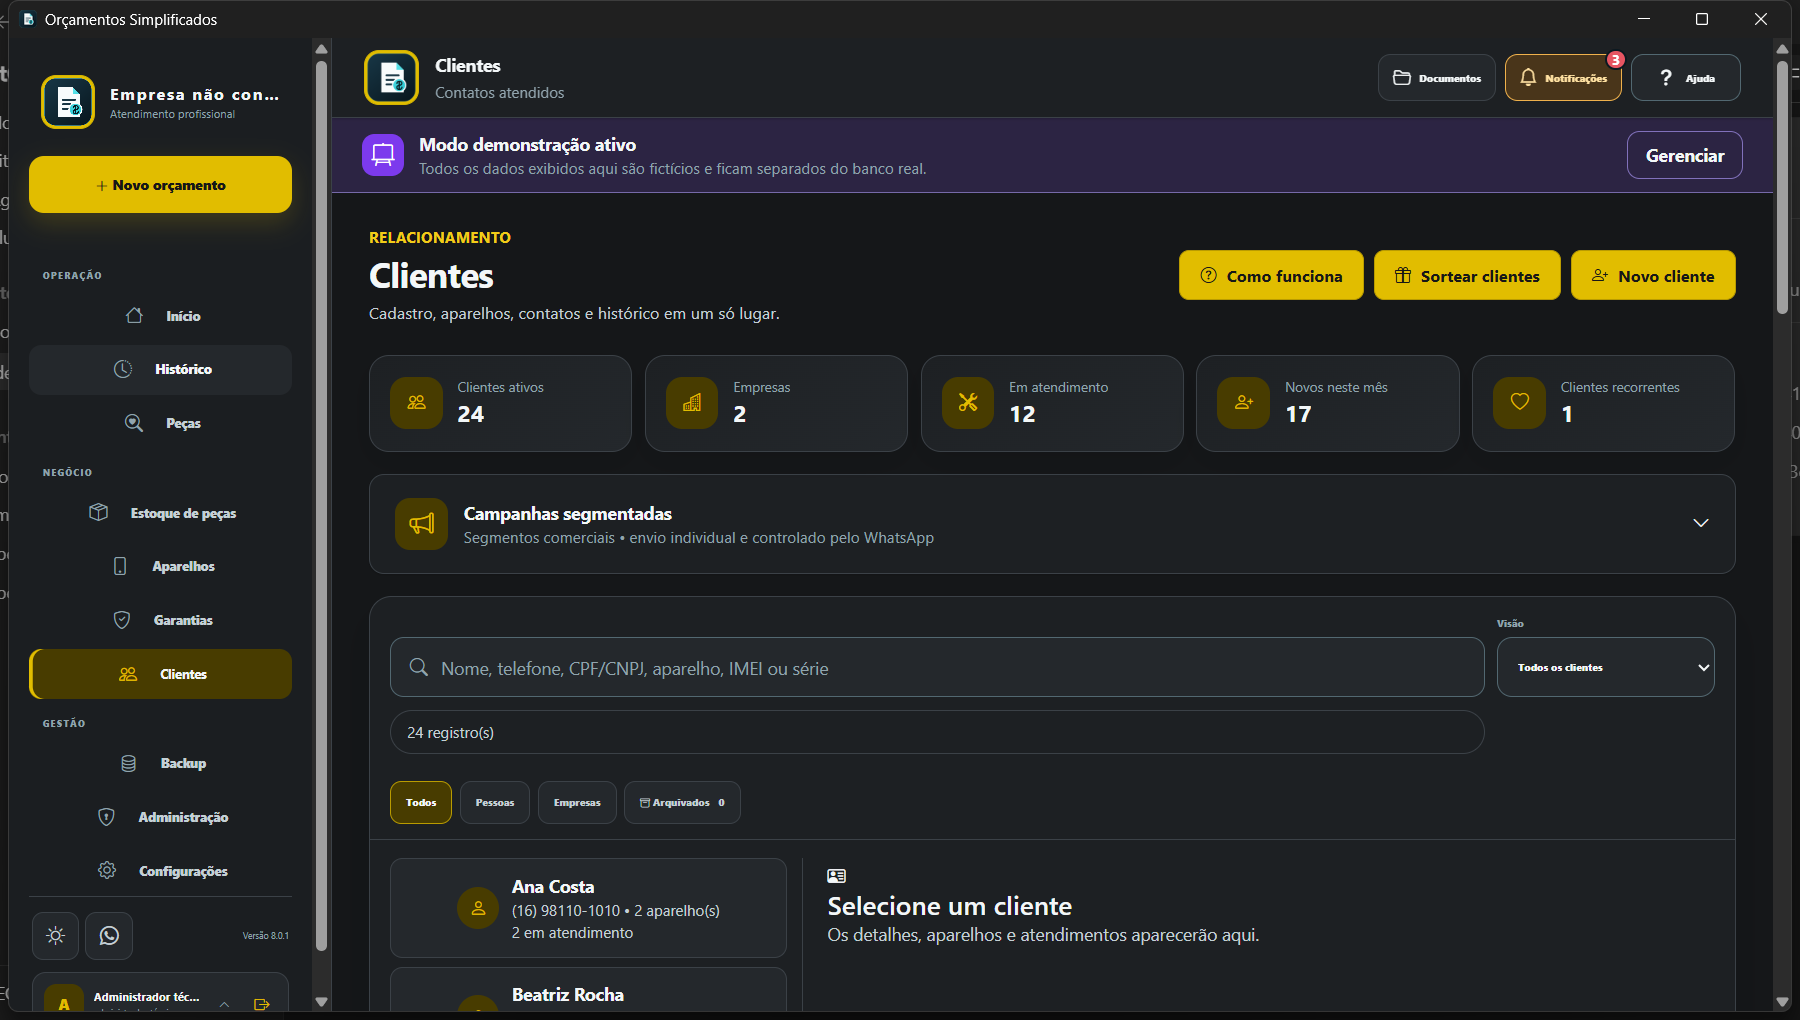
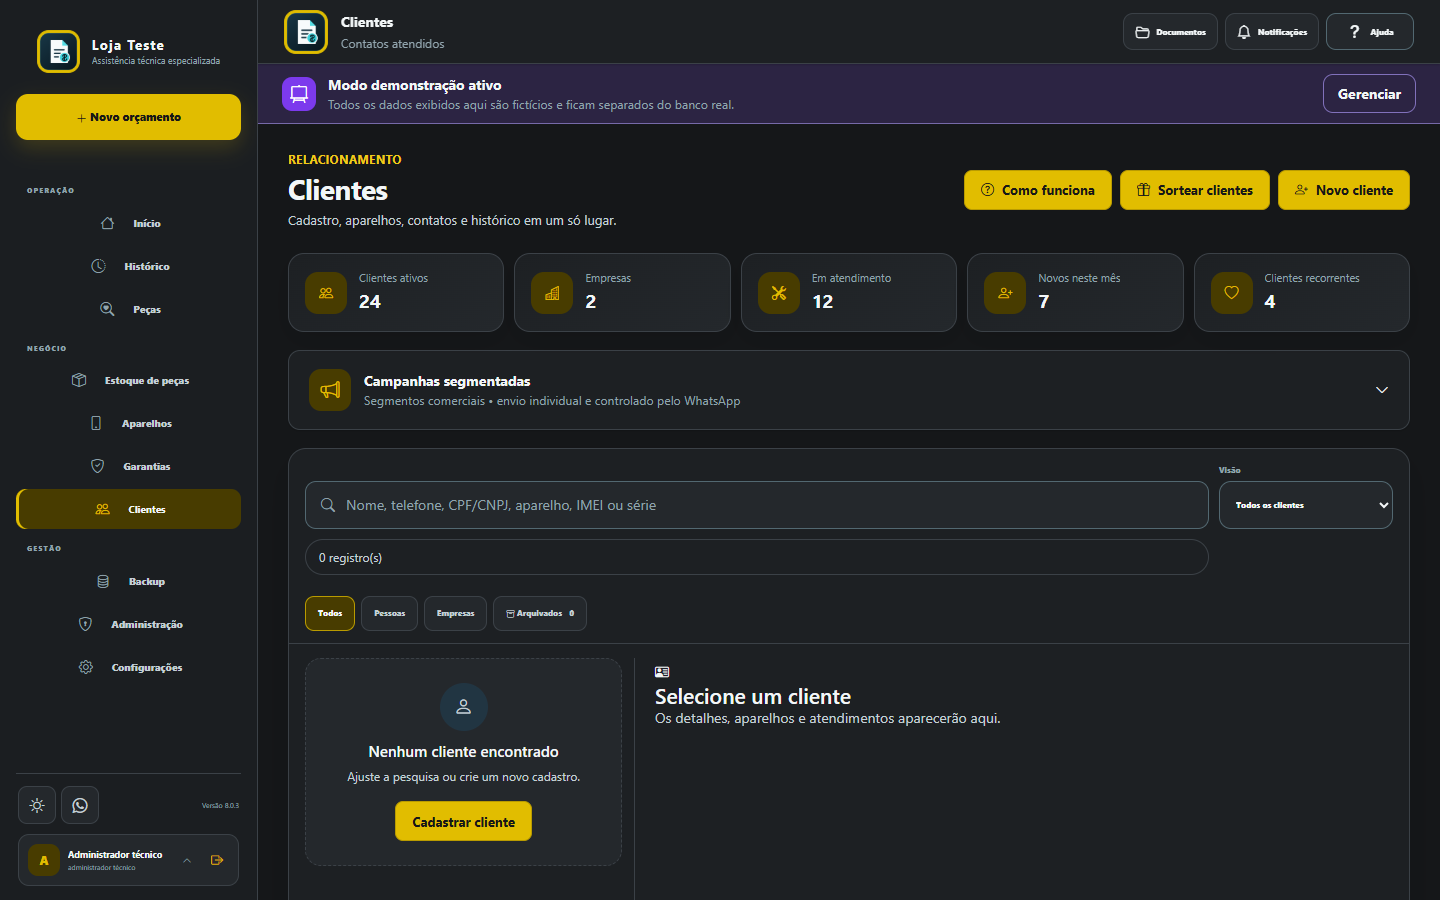
Corrige vitrine com telas reais de todos os menus

diff --git a/app/components/product-preview.tsx b/app/components/product-preview.tsx
@@ -4,7 +4,16 @@ import Image from "next/image";
 import { useState } from "react";
 import { assetPath } from "../../lib/site-data";
 
-type PreviewView = "inicio" | "historico" | "clientes" | "novo";
+type PreviewView =
+  | "inicio"
+  | "historico"
+  | "clientes"
+  | "novo"
+  | "aparelhos"
+  | "estoque"
+  | "garantias"
+  | "relatorios"
+  | "configuracoes";
 type TourArea = "inicio" | "novo" | "historico" | "clientes" | "aparelhos" | "estoque" | "garantias" | "relatorios" | "configuracoes";
 
 const previews: Record<PreviewView, { src: string; title: string; description: string }> = {
@@ -12,6 +21,11 @@ const previews: Record<PreviewView, { src: string; title: string; description: s
   historico: { src: "/assets/img/app/historico-real.png", title: "Histórico", description: "Atendimentos, filtros, vínculos e andamento em uma única tela." },
   clientes: { src: "/assets/img/app/clientes-real.png", title: "Clientes", description: "Pesquisa, aparelhos e histórico de cada cliente." },
   novo: { src: "/assets/img/app/novo-orcamento-real.png", title: "Novo orçamento", description: "Cadastro guiado do cliente, aparelho, serviço e condições." },
+  aparelhos: { src: "/assets/img/app/aparelhos-real.png", title: "Aparelhos", description: "Compras, estoque, vendas e imagens reunidos em uma central." },
+  estoque: { src: "/assets/img/app/estoque-real.png", title: "Estoque de peças", description: "Saldos, custos, compatibilidade e movimentações de peças." },
+  garantias: { src: "/assets/img/app/garantias-real.png", title: "Garantias", description: "Retornos, prazos e histórico ligados ao atendimento original." },
+  relatorios: { src: "/assets/img/app/relatorios-real.png", title: "Relatórios", description: "Exportação contábil e indicadores da operação." },
+  configuracoes: { src: "/assets/img/app/configuracoes-real.png", title: "Configurações", description: "Aparência, inicialização, ajuda e preferências do aplicativo." },
 };
 
 const tourAreas: Array<{ id: TourArea; view: PreviewView; label: string; icon: string; group: string; description: string }> = [
@@ -19,11 +33,11 @@ const tourAreas: Array<{ id: TourArea; view: PreviewView; label: string; icon: s
   { id: "novo", view: "novo", label: "Novo orçamento", icon: "bi-plus-circle", group: "Rotina", description: "Cadastre cliente, aparelho, relato, serviços e condições em uma sequência clara." },
   { id: "historico", view: "historico", label: "Histórico", icon: "bi-clock-history", group: "Rotina", description: "Encontre atendimentos por status, período, cliente, aparelho ou responsável." },
   { id: "clientes", view: "clientes", label: "Clientes", icon: "bi-people", group: "Atendimento", description: "Consulte contatos, aparelhos e todo o relacionamento de cada cliente." },
-  { id: "aparelhos", view: "clientes", label: "Aparelhos", icon: "bi-phone", group: "Atendimento", description: "Veja aparelhos atendidos, comprados e vendidos dentro do perfil do cliente." },
-  { id: "estoque", view: "inicio", label: "Estoque de peças", icon: "bi-box-seam", group: "Atendimento", description: "Controle entradas, usos, saldos mínimos, custos e compatibilidade das peças." },
-  { id: "garantias", view: "historico", label: "Garantias", icon: "bi-shield-check", group: "Gestão", description: "Acompanhe garantias abertas e mantenha o retorno ligado ao serviço original." },
-  { id: "relatorios", view: "inicio", label: "Relatórios", icon: "bi-bar-chart", group: "Gestão", description: "Reúna indicadores comerciais e operacionais para entender o desempenho da loja." },
-  { id: "configuracoes", view: "inicio", label: "Configurações", icon: "bi-gear", group: "Gestão", description: "Ajuste empresa, equipe, documentos, mensagens, notificações e segurança." },
+  { id: "aparelhos", view: "aparelhos", label: "Aparelhos", icon: "bi-phone", group: "Atendimento", description: "Veja compras, estoque, vendas e imagens de aparelhos em uma única central." },
+  { id: "estoque", view: "estoque", label: "Estoque de peças", icon: "bi-box-seam", group: "Atendimento", description: "Controle entradas, usos, saldos mínimos, custos e compatibilidade das peças." },
+  { id: "garantias", view: "garantias", label: "Garantias", icon: "bi-shield-check", group: "Gestão", description: "Acompanhe garantias abertas e mantenha o retorno ligado ao serviço original." },
+  { id: "relatorios", view: "relatorios", label: "Relatórios", icon: "bi-bar-chart", group: "Gestão", description: "Exporte dados contábeis e reúna indicadores para entender o desempenho da loja." },
+  { id: "configuracoes", view: "configuracoes", label: "Configurações", icon: "bi-gear", group: "Gestão", description: "Ajuste aparência, inicialização, ajuda e preferências do aplicativo." },
 ];
 
 const hotspots: Array<{ area: TourArea; label: string; className: string }> = [
@@ -46,8 +60,7 @@ export function ProductPreview() {
         <strong>{area.label}</strong>
       </div>
       <div className="authentic-preview-frame">
-        <Image key={preview.src} src={assetPath(preview.src)} width={1440} height={816} priority loading="eager" sizes="(max-width: 991px) 100vw, 58vw" alt={`Tela do aplicativo: ${preview.title}`} />
-        <span className="preview-demo-brand" aria-hidden="true"><strong>LOJA TESTE</strong><small>Ambiente demonstrativo</small></span>
+        <Image key={preview.src} src={assetPath(preview.src)} width={1440} height={900} priority loading="eager" sizes="(max-width: 991px) 100vw, 58vw" alt={`Tela real do aplicativo: ${preview.title}`} />
         {hotspots.map((hotspot) => (
           <button key={hotspot.area} type="button" className={`preview-hotspot ${hotspot.className} ${active === hotspot.area ? "active" : ""}`} aria-label={hotspot.label} aria-pressed={active === hotspot.area} onClick={() => setActive(hotspot.area)}>
             <span>{hotspot.label}</span>

diff --git a/app/globals.css b/app/globals.css
@@ -264,17 +264,14 @@ h1 { max-width:13ch; margin:1rem 0 1.2rem; font-size:clamp(2.8rem,5.8vw,5.4rem);
 .authentic-product-preview { background:#101419; }
 .authentic-preview-toolbar { display:flex; align-items:center; justify-content:space-between; gap:1rem; padding:.65rem .85rem; border-bottom:1px solid #343d43; background:#181e23; color:#e9f0f3; font-size:.72rem; }
 .authentic-preview-toolbar span { color:#90a5af; }.authentic-preview-toolbar i { margin-right:.35rem; color:#efd200; }
-.authentic-preview-frame { position:relative; overflow:hidden; aspect-ratio:1440/816; background:#12171b; }
+.authentic-preview-frame { position:relative; overflow:hidden; aspect-ratio:16/10; background:#12171b; }
 .authentic-preview-frame>img { display:block; width:100%; height:100%; object-fit:cover; }
-.preview-demo-brand { position:absolute; z-index:2; left:5.7%; top:7.2%; display:flex; flex-direction:column; justify-content:center; width:10.6%; height:5.6%; padding-left:.4rem; background:#1d2226; color:#fff; pointer-events:none; }
-.preview-demo-brand strong { overflow:hidden; font-size:clamp(.34rem,.62vw,.6rem); letter-spacing:.08em; text-overflow:ellipsis; white-space:nowrap; }
-.preview-demo-brand small { color:#8db4c5; font-size:clamp(.25rem,.42vw,.42rem); }
 .preview-hotspot { position:absolute; z-index:3; left:1.65%; width:15.1%; border:1px solid transparent; border-radius:.55rem; background:transparent; color:#fff; cursor:pointer; transition:border-color .2s,background .2s,box-shadow .2s; }
 .preview-hotspot span { position:absolute; left:calc(100% + .45rem); top:50%; width:max-content; max-width:190px; padding:.35rem .5rem; transform:translateY(-50%); border:1px solid #4c6673; border-radius:.45rem; background:rgba(6,24,34,.94); color:#fff; font-size:.65rem; opacity:0; pointer-events:none; }
 .preview-hotspot:hover,.preview-hotspot:focus-visible { border-color:#f0d300; background:rgba(240,211,0,.1); box-shadow:0 0 0 3px rgba(240,211,0,.15); outline:0; }
 .preview-hotspot:hover span,.preview-hotspot:focus-visible span { opacity:1; }
 .preview-hotspot.active { border-color:rgba(240,211,0,.55); }
-.hotspot-new { top:15.1%; height:5.8%; }.hotspot-home { top:28.45%; height:5.1%; }.hotspot-history { top:33.65%; height:5.1%; }.hotspot-clients { top:63.65%; height:5.1%; }
+.hotspot-new { top:8.5%; height:7.5%; }.hotspot-home { top:21.5%; height:5.2%; }.hotspot-history { top:26.3%; height:5.2%; }.hotspot-clients { top:52.9%; height:5.2%; }
 .authentic-preview-caption { display:grid; gap:.35rem; padding:.8rem .9rem 1rem; border-top:1px solid #303a40; background:#151b20; }
 .authentic-preview-caption>span { color:#7fddec; font-size:.68rem; font-weight:750; }.authentic-preview-caption p { margin:0; color:#a8bbc4; font-size:.72rem; }.authentic-preview-caption p strong { color:#fff; }
 .preview-tour-menu { display:grid; grid-template-columns:repeat(3,minmax(0,1fr)); gap:.55rem; margin-top:.55rem; }
@@ -287,7 +284,7 @@ h1 { max-width:13ch; margin:1rem 0 1.2rem; font-size:clamp(2.8rem,5.8vw,5.4rem);
 .preview-tour-group button.active i { color:#ffe800; }
 .real-screen-grid { display:grid; grid-template-columns:repeat(2,minmax(0,1fr)); gap:1.25rem; margin-top:3rem; }
 .real-screen-card { overflow:hidden; margin:0; border:1px solid #bfd5de; border-radius:1.15rem; background:#fff; box-shadow:0 20px 50px rgba(10,50,68,.12); }
-.real-screen-card>div { overflow:hidden; aspect-ratio:1440/816; background:#11171b; }
+.real-screen-card>div { overflow:hidden; aspect-ratio:16/10; background:#11171b; }
 .real-screen-card img { display:block; width:100%; height:100%; object-fit:cover; transition:transform .35s ease; }
 .real-screen-card:hover img { transform:scale(1.018); }
 .real-screen-card figcaption { display:grid; gap:.3rem; padding:1.1rem 1.2rem 1.25rem; }
@@ -360,7 +357,6 @@ h1 { max-width:13ch; margin:1rem 0 1.2rem; font-size:clamp(2.8rem,5.8vw,5.4rem);
   .hero-section .btn { width:100%; }
   .trial-card>div { padding-left:0; padding-top:72px; }
   .hero-console { border-radius:.9rem; }
-  .preview-demo-brand { left:5.7%; width:11.5%; }
   .preview-hotspot span { display:none; }
   .authentic-preview-caption { padding:.7rem; }
   .preview-tour-menu { grid-template-columns:1fr; }

diff --git a/app/page.tsx b/app/page.tsx
@@ -40,7 +40,7 @@ export default function Home() {
       ["historico-real.png", "Histórico", "Filtros, atendimentos vinculados e todos os estados da assistência."],
       ["clientes-real.png", "Clientes", "Pesquisa preparada para milhares de registros, aparelhos e atendimentos."],
       ["novo-orcamento-real.png", "Novo orçamento", "Cadastro completo com sugestões, revisão e número público."],
-    ].map(([file,title,caption]) => <figure className="real-screen-card" key={file}><div><Image src={assetPath(`/assets/img/app/${file}`)} width={1440} height={816} alt={`Tela do aplicativo: ${title}`} sizes="(max-width: 767px) 100vw, 50vw" /></div><figcaption><strong>{title}</strong><span>{caption}</span><small><i className="bi bi-check-circle" /> Disponível na versão {PRODUCT.version}</small></figcaption></figure>)}</div><div className="tour-action"><p>Quer ver como isso se encaixa na rotina da sua loja?</p><a className="btn btn-primary btn-lg" href={PRODUCT.trialLink}>Solicitar teste grátis <i className="bi bi-whatsapp" /></a></div></div></section>
+    ].map(([file,title,caption]) => <figure className="real-screen-card" key={file}><div><Image src={assetPath(`/assets/img/app/${file}`)} width={1440} height={900} alt={`Tela do aplicativo: ${title}`} sizes="(max-width: 767px) 100vw, 50vw" /></div><figcaption><strong>{title}</strong><span>{caption}</span><small><i className="bi bi-check-circle" /> Disponível na versão {PRODUCT.version}</small></figcaption></figure>)}</div><div className="tour-action"><p>Quer ver como isso se encaixa na rotina da sua loja?</p><a className="btn btn-primary btn-lg" href={PRODUCT.trialLink}>Solicitar teste grátis <i className="bi bi-whatsapp" /></a></div></div></section>
 
     <section className="section-light" data-reveal><div className="container"><div className="section-heading centered"><span className="eyebrow">Documentos que valorizam sua entrega</span><h2>Sua loja com uma apresentação mais profissional.</h2><p>Abra os exemplos e veja como orçamento, retirada, compra e fichas ficam prontos para entregar ao cliente.</p></div><div className="mt-5"><MediaGallery /></div></div></section>
 

diff --git a/app/guia/page.tsx b/app/guia/page.tsx
@@ -4,4 +4,4 @@ import { PageHero } from "../components/page-hero";
 
 export const metadata: Metadata = { title: "Guia completo | Orçamentos Simplificados", description: "Manual pesquisável do aplicativo: instalação, orçamentos, clientes, aparelhos, garantias, documentos, backup e segurança.", alternates: { canonical: "/guia" } };
 
-export default function GuiaPage() { return <main><PageHero eyebrow="Manual completo" title="Aprenda no ritmo da sua operação." description="Pesquise uma tarefa, filtre por área e siga o passo a passo de cada rotina." /><section className="guide-section"><div className="container"><div className="guide-notice"><i className="bi bi-info-circle" /><div><strong>Guia da versão 8.0.2</strong><span>Use a busca para ir direto ao atendimento, documento ou configuração que precisa.</span></div></div><GuideSearch /></div></section></main>; }
+export default function GuiaPage() { return <main><PageHero eyebrow="Manual completo" title="Aprenda no ritmo da sua operação." description="Pesquise uma tarefa, filtre por área e siga o passo a passo de cada rotina." /><section className="guide-section"><div className="container"><div className="guide-notice"><i className="bi bi-info-circle" /><div><strong>Guia da versão 8.0.3</strong><span>Use a busca para ir direto ao atendimento, documento ou configuração que precisa.</span></div></div><GuideSearch /></div></section></main>; }

diff --git a/lib/site-data.ts b/lib/site-data.ts
@@ -8,7 +8,7 @@ export const whatsappLink = (message: string) =>
 
 export const PRODUCT = {
   name: "Orçamentos Simplificados",
-  version: "8.0.2",
+  version: "8.0.3",
   platform: "Windows 10 ou 11, 64 bits",
   purchaseLink: "/planos",
   contactLink: whatsappLink(
